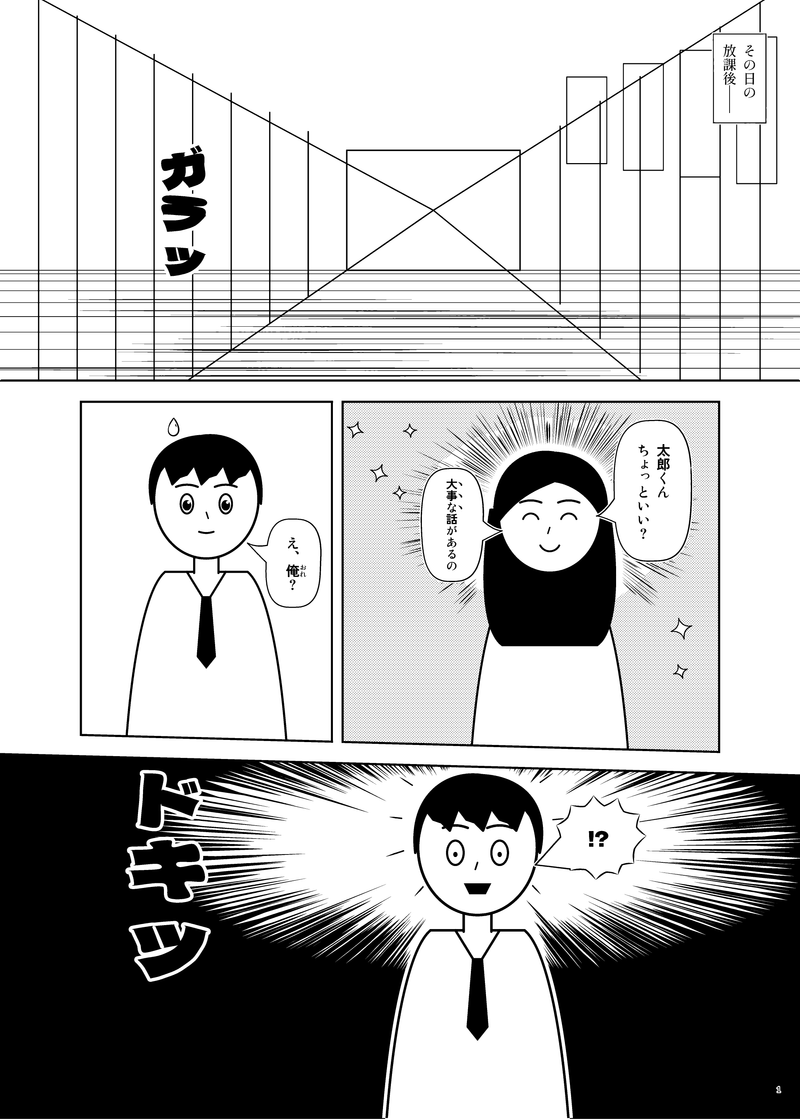
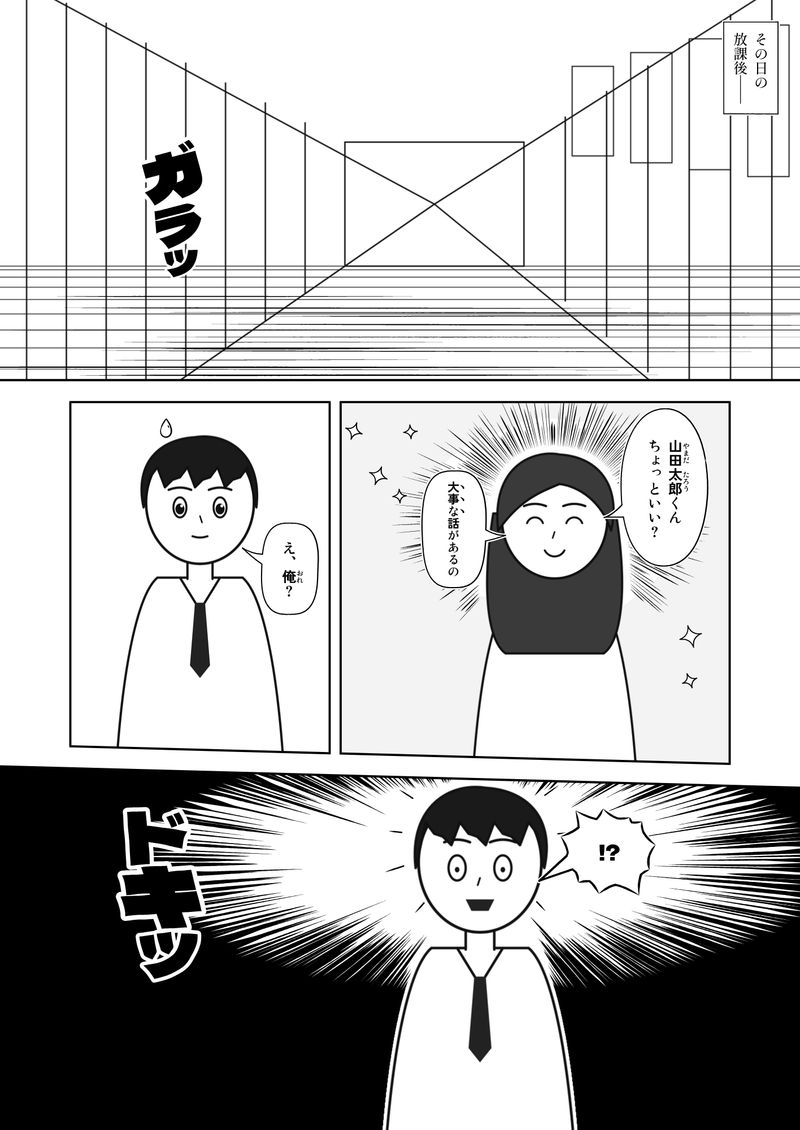
Keep compound ruby centered over each word (#94)

Changed region(s): [[0.0, 0.0, 1.0, 1.0]]

diff --git a/src/text/layout.ts b/src/text/layout.ts
@@ -5,7 +5,7 @@ import type { FontPick, FontRegistry, LoadedFont } from "../fonts/registry.js";
 import { type PathData, flattenPath, pathFromJson, transformPath } from "../geom/path.js";
 import { type Matrix, type Rect, boundsOf, matMul, matRotate, matScale, matTranslate } from "../geom/vec.js";
 import { type KinsokuLevel, inseparable, isClosingPunct, isOpeningPunct, noEnd, noStart, phraseBoundaries, wordBoundaries } from "./linebreak.js";
-import { type InlineStyle, type NormalizeOptions, type ParsedText, type Unit, assignTcy, parseMarkup } from "./markup.js";
+import { type InlineStyle, type NormalizeOptions, type ParsedText, type RubyDef, type Unit, assignTcy, parseMarkup } from "./markup.js";
 
 export interface TextStyle {
   font: string;
@@ -97,6 +97,7 @@ interface Box {
   wbrBefore?: boolean;
   space?: boolean;
   ruby?: number;
+  rubyGroup?: number;
   nobr?: number;
   color?: string;
   bold?: boolean;
@@ -360,7 +361,9 @@ function buildBoxes(parsed: ParsedText, style: TextStyle, reg: FontRegistry, mis
     let j = i + 1;
     const key = (x: Unit & { kind: "char" }) => `${orientOf(x)}|${fontOf(x.style)}|${sizeOf(x.style)}|${x.style.color ?? ""}|${x.tcyGroup ?? ""}|${x.style.bold ? 1 : 0}|${x.style.nobr ?? ""}|${x.style.shake ? 1 : 0}|${x.style.hand ? 1 : 0}|${x.style.scaleX ?? ""}|${x.style.scaleY ?? ""}`;
     const k0 = key(u);
-    while (j < units.length && units[j].kind === "char" && key(units[j] as Unit & { kind: "char" }) === k0 && (o !== "tcy" || (units[j] as { tcyGroup?: number }).tcyGroup === u.tcyGroup)) {
+    for (let next = units[j]; next?.kind === "char"; next = units[j]) {
+      if (key(next) !== k0 || (o === "tcy" && next.tcyGroup !== u.tcyGroup)) break;
+      if (next.rubyGroup !== u.rubyGroup || (u.rubyGroup !== undefined && next.ruby !== u.ruby)) break;
       run.push(j);
       j++;
     }
@@ -407,6 +410,7 @@ function buildBoxes(parsed: ParsedText, style: TextStyle, reg: FontRegistry, mis
       bx.color = st.color;
       bx.bold = bold && !(vertical && o === "upright" && bx.chars === "…");
       bx.ruby = uu.ruby;
+      bx.rubyGroup = uu.rubyGroup;
       bx.nobr = st.nobr;
       bx.emph = uu.emph;
       bx.shake = st.shake;
@@ -859,6 +863,11 @@ function breakLines(boxes: Box[], Lmax: number, wrap: string, style: TextStyle):
         len += adv;
         continue;
       }
+      if (k < 0 && b.rubyGroup !== undefined && cur[cur.length - 1].ruby === b.ruby) {
+        cur.push(b);
+        len += adv;
+        continue;
+      }
       if (k < 0) k = cur.length;
       const carry = cur.slice(k);
       cur = cur.slice(0, k);
@@ -886,6 +895,13 @@ function trimSpaces(bs: Box[]): Box[] {
   return out;
 }
 
+function rubySegments<B extends Box>(r: RubyDef, boxes: B[]): { text: string; boxes: B[] }[] {
+  const bs = boxes.filter((b) => b.ruby === r.id);
+  if (r.groups) return r.groups.map((text, i) => ({ text, boxes: bs.filter((b) => b.rubyGroup === i) }));
+  if (r.mono) return bs.map((b, i) => ({ text: r.mono![i] ?? "", boxes: [b] }));
+  return [{ text: r.text, boxes: bs }];
+}
+
 /** ruby longer than its base (plus the allowed overhang) spreads the base characters evenly (spec 7.8) */
 function spreadRubyBases(parsed: ParsedText, boxes: Box[], style: TextStyle, reg: FontRegistry, vertical: boolean) {
   if (!parsed.rubies.length) return;
@@ -900,12 +916,10 @@ function spreadRubyBases(parsed: ParsedText, boxes: Box[], style: TextStyle, reg
     return shape(pk.font, text, "ltr", style.lang).reduce((a, g) => a + g.xAdvance * (rsize / pk.font.upem), 0);
   };
   for (const r of parsed.rubies) {
-    const bs = boxes.filter((b) => b.ruby === r.id);
-    if (!bs.length) continue;
-    const groups = r.mono ? bs.map((b, k) => ({ text: r.mono![k] ?? "", boxes: [b] })) : [{ text: r.text, boxes: bs }];
-    for (const g of groups) {
+    for (const g of rubySegments(r, boxes)) {
+      if (!g.boxes.length) continue;
       const base = g.boxes.reduce((a, b) => a + b.adv, 0);
-      const need = rubyLen(g.text) - base - 2 * hang;
+      const need = rubyLen(g.text) - base - (r.groups ? 0 : 2 * hang);
       if (need <= 0.01) continue;
       const per = need / g.boxes.length;
       for (const b of g.boxes) {
@@ -925,10 +939,7 @@ function placeRuby(parsed: ParsedText, boxes: Box[], glyphs: GlyphOut[], style: 
   const rsize = style.fontSize * style.ruby.size;
   const font = style.ruby.font ?? style.font;
   for (const r of parsed.rubies) {
-    const bs = boxes.filter((b) => b.ruby === r.id) as (Box & { _pos?: [number, number] })[];
-    if (!bs.length) continue;
-    const segments: { text: string; boxes: typeof bs }[] = r.mono ? bs.map((b, k) => ({ text: r.mono![k] ?? "", boxes: [b] })) : [{ text: r.text, boxes: bs }];
-    for (const sg of segments) {
+    for (const sg of rubySegments(r, boxes as (Box & { _pos?: [number, number] })[])) {
       sg.boxes = sg.boxes.filter((b) => b._pos);
       if (!sg.boxes.length) continue;
       const first = sg.boxes[0]._pos!;

diff --git a/test/typeset.test.ts b/test/typeset.test.ts
@@ -49,6 +49,26 @@ describe("typesetting", () => {
     expect(result.glyphs).toEqual([]);
     expect(result.lines.map((line) => line.text)).toEqual([""]);
   });
+  it.each(["vertical", "horizontal"] as const)("centers compact ruby over each word in %s text", async (writing) => {
+    const text = "<ruby=しらいし／ひより>白石／陽和</ruby>";
+    await reg.prepare("dialogue", text);
+    const style = defaultTextStyle({ font: "dialogue", fontSize: 10, writing });
+    const layout = layoutText(text, style, reg);
+    const reference = layoutText("白石《しらいし》陽和《ひより》", style, reg);
+    const unsplit = layoutText("白石陽和《しらいしひより》", style, reg);
+    const along = ({ cx, cy }: (typeof layout.glyphs)[number]) => writing === "vertical" ? cy : cx;
+    const positions = layout.glyphs.map(along);
+    expect(layout.plain).toBe("白石陽和");
+    expect(positions).toEqual(reference.glyphs.map(along));
+    expect(positions.slice(4)).not.toEqual(unsplit.glyphs.slice(4).map(along));
+    expect(layoutText(text, { ...style, wrap: "char", maxExtent: 15 }, reg).lines.map((line) => line.text)).toEqual(["白石陽和"]);
+  });
+  it("expands only the base underneath a long compound reading", async () => {
+    const text = "｜白石／陽和《しらいしー／ひより》";
+    await reg.prepare("dialogue", text);
+    const result = layoutText(text, defaultTextStyle({ font: "dialogue", fontSize: 10 }), reg);
+    expect(result.glyphs.map(({ cy }) => cy)).toEqual([6.25, 18.75, 30, 40, 0, 5, 10, 15, 20, 27.5, 32.5, 37.5]);
+  });
   it("uses oikomi rather than leaving a single-character column", async () => {
     expect(await lines("ダメ！", { maxChars: 2 })).toEqual(["ダメ！"]);
   });

diff --git a/src/text/markup.ts b/src/text/markup.ts
@@ -18,7 +18,7 @@ export interface InlineStyle {
 }
 
 export type Unit =
-  | { kind: "char"; ch: string; style: InlineStyle; emph?: boolean | string; ruby?: number; tcyGroup?: number; nobr?: number }
+  | { kind: "char"; ch: string; style: InlineStyle; emph?: boolean | string; ruby?: number; rubyGroup?: number; tcyGroup?: number; nobr?: number }
   | { kind: "break" }
   | { kind: "wbr" }
   | { kind: "space"; em: number; style: InlineStyle };
@@ -27,6 +27,7 @@ export interface RubyDef {
   id: number;
   text: string;
   mono: string[] | null;
+  groups?: string[];
 }
 
 export interface ParsedText {
@@ -277,6 +278,18 @@ function pushChar(out: ParsedText, g: string, style: InlineStyle, emph: boolean 
 
 function addRuby(out: ParsedText, base: string, ruby: string, style: InlineStyle, norm: NormalizeOptions, vertical: boolean) {
   const id = out.rubies.length;
+  if (base.includes("／") && ruby.includes("／")) {
+    const bases = base.split("／").map((part) => splitGraphemes(normalizeChunk(part.trim(), norm, vertical)));
+    const groups = ruby.split("／").map((part) => part.trim());
+    if (bases.length === groups.length && bases.every((part) => part.length) && groups.every(Boolean)) {
+      out.rubies.push({ id, text: groups.join(""), mono: null, groups });
+      bases.forEach((chars, rubyGroup) => {
+        for (const ch of chars) out.units.push({ kind: "char", ch, style, ruby: id, rubyGroup });
+      });
+      return;
+    }
+    out.errors.push({ code: "TEXT_RUBY_MISMATCH", message: `compound ruby group mismatch: ${base}《${ruby}》` });
+  }
   const chars = splitGraphemes(normalizeChunk(base, norm, vertical));
   const parts = ruby.split(" ").filter(Boolean);
   let mono: string[] | null = null;

diff --git a/test/text.test.ts b/test/text.test.ts
@@ -11,6 +11,19 @@ describe("markup", () => {
     expect(p.rubies.map((r) => r.text)).toEqual(["とうきょう", "かんじ"]);
     expect(p.units.filter((u) => u.kind === "char" && u.ruby === 1).length).toBe(2);
   });
+  it.each(["｜白石／陽和《しらいし／ひより》", "<ruby=しらいし／ひより>白石／陽和</ruby>"])("pairs compound ruby by word: %s", (text) => {
+    const p = parseMarkup(text, { vertical: true });
+    expect(p.errors).toEqual([]);
+    expect(p.rubies).toEqual([{ id: 0, text: "しらいしひより", mono: null, groups: ["しらいし", "ひより"] }]);
+    expect(chars(text).map(({ ch, ruby, rubyGroup }) => [ch, ruby, rubyGroup])).toEqual([
+      ["白", 0, 0], ["石", 0, 0], ["陽", 0, 1], ["和", 0, 1],
+    ]);
+  });
+  it("preserves mono ruby and unpaired literal slashes", () => {
+    expect(parseMarkup("東京《とう きょう》", { vertical: true }).rubies[0].mono).toEqual(["とう", "きょう"]);
+    expect(parseMarkup("白石陽和《しらいし／ひより》", { vertical: true }).rubies[0].text).toBe("しらいし／ひより");
+    expect(parseMarkup("｜白石／陽和《しらいし／ひ／より》", { vertical: true }).errors[0]?.code).toBe("TEXT_RUBY_MISMATCH");
+  });
   it("marks emphasis dots", () => {
     const u = chars("《《大事》》な");
     expect(u.map((x) => !!x.emph)).toEqual([true, true, false]);

diff --git a/docs/07-text.md b/docs/07-text.md
@@ -473,8 +473,9 @@ ruby:
 | `reserve` | `auto` \| `none` | `auto` | ルビが列（行）の間に収まらない場合に、その列の行送りを広げるか |
 
 - ルビを半角の空白で区切ると（`東京《とう きょう》`）、親文字 1 文字ずつに割り当てる（モノルビ）。区切りの数と親文字の数が合わない場合はエラー（`TEXT_RUBY_MISMATCH`）。
+- 親文字とルビの両方を全角の `／` で区切ると（`｜白石／陽和《しらいし／ひより》` または `<ruby=しらいし／ひより>白石／陽和</ruby>`）、区切りを表示せず、各語のルビを対応する親文字に詰めて配置する。区切った組の数が合わない場合や空の組がある場合はエラー（`TEXT_RUBY_MISMATCH`）。
 - 区切らない場合はグループルビとし、親文字全体の中央に置く。
-- ルビが親文字より長く、`overhang` を使っても収まらない場合は、親文字の字間を均等に広げる。
+- ルビが親文字より長く、`overhang` を使っても収まらない場合は、親文字の字間を均等に広げる。`／` で区切った組は、隣のルビと重ならないよう、はみ出さずに配置する。
 - 改行は、親文字とルビのまとまりの途中では行わない。
 
 ## 7.9 傍点

diff --git a/docs/16-grammar.md b/docs/16-grammar.md
@@ -198,7 +198,7 @@ base      = base-char { base-char } ;              (* 1〜20 文字 *)
 base-char = 任意の文字（"《"、"》"、"｜"、"|"、LF を除く） ;
 implicit-ruby = kanji { kanji } "《" ruby-text "》" ;   (* 直前の漢字の最長の連続を親文字とする *)
 kanji     = 範囲名 kanji（7.3.4）に含まれる文字 ;
-ruby-text = ruby-char { ruby-char } ;              (* 半角の空白で区切るとモノルビ *)
+ruby-text = ruby-char { ruby-char } ;              (* 半角空白はモノルビ。親文字とルビを全角の ／ で区切ると語ごとのルビ *)
 ruby-char = 任意の文字（"》"、LF を除く） ;
 
 tag       = open-tag | close-tag | void-tag ;
